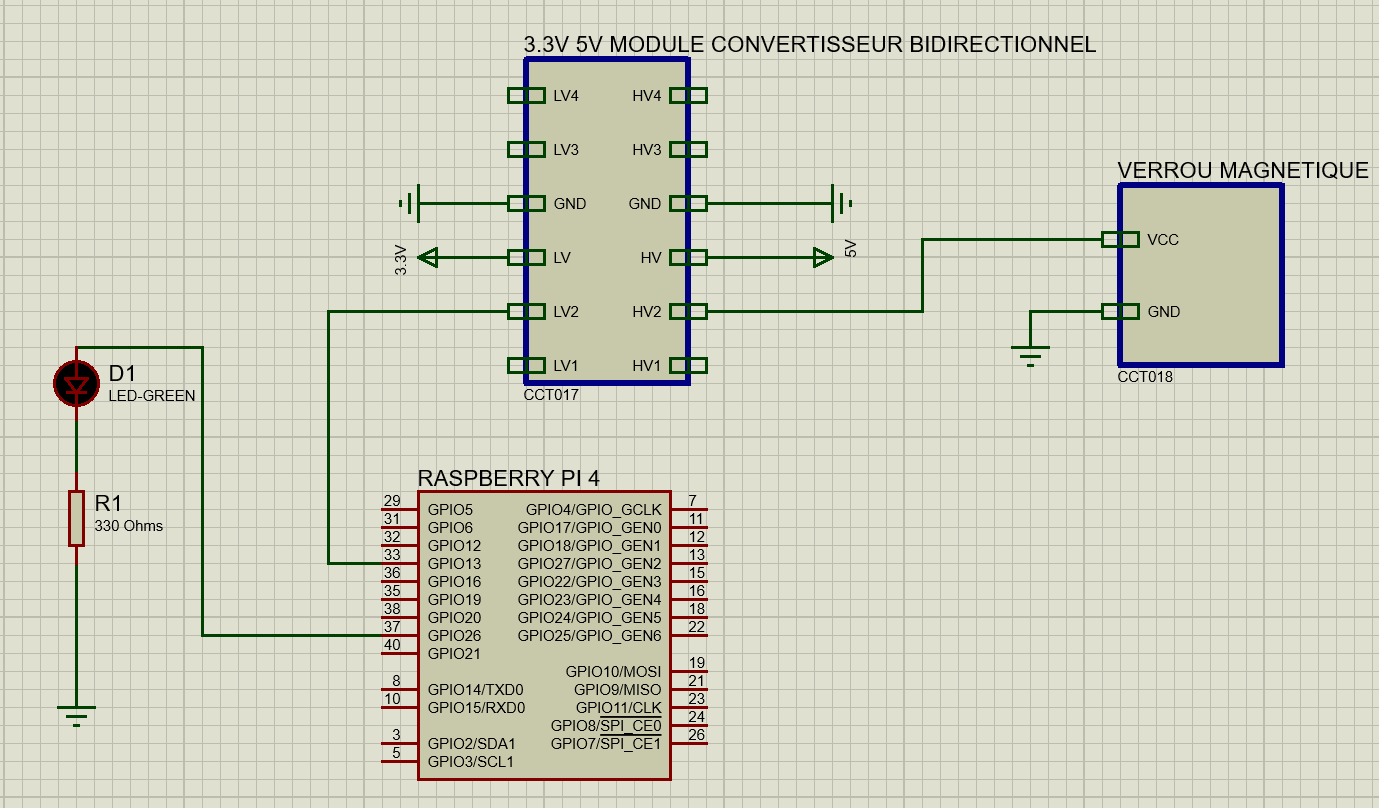
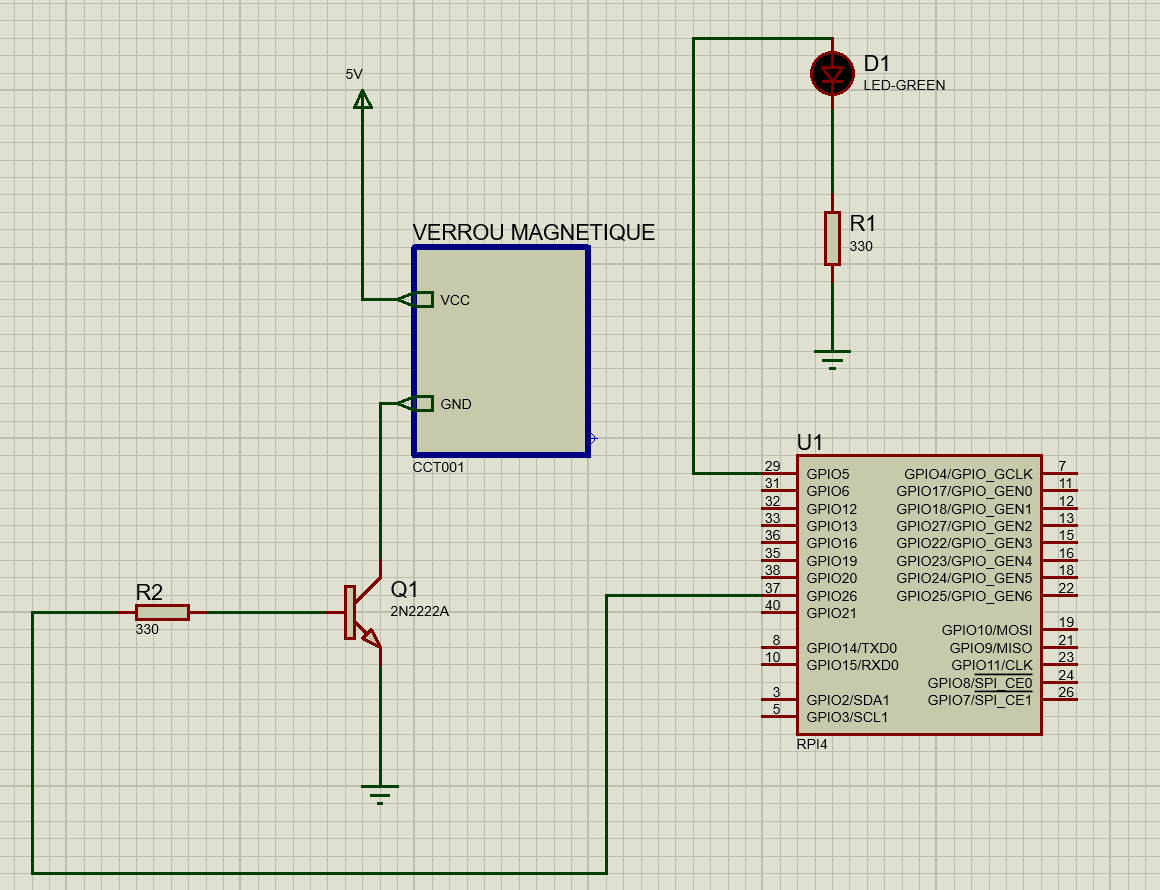
maj py files

diff --git a/Electronique/Raspberry/script.py b/Electronique/Raspberry/script.py
@@ -16,7 +16,7 @@ tabColis=json.loads(x.text)
 #code=open('/dev/hidraw3', 'rb')
 GPIO.setmode(GPIO.BCM)
 GPIO.setup(26,GPIO.OUT, initial=GPIO.LOW)
-GPIO.setup(13,GPIO.OUT, initial=GPIO.HIGH)
+GPIO.setup(5,GPIO.OUT, initial=GPIO.LOW)
 def chargeLivraisons():
     x=requests.get('https://51.91.102.255:8080/api/livraisons/'+numBoite, verify=False)
     tabColis=json.loads(x.text)
@@ -27,28 +27,28 @@ schedule.every(30).minutes.do(chargeLivraisons)
 while 1:
     schedule.run_pending()
     num=input("")
+    y=requests.get('https://51.91.102.255:8080/api/livraisons/'+numBoite, verify=False)
+    tabColis=json.loads(y.text)
     for i in range(len(tabColis)):
         if num==tabColis[i]["numcolis"] and tabColis[i]["datefin"] is not None:
             bonneDate= tabColis[i]["datefin"][:10]
             b=datetime.strptime(bonneDate,'%Y-%m-%d')
             if date.today() == b.date():
-                print('equals')
                 GPIO.output(26,1)
-                GPIO.output(13,0)
+                GPIO.output(5,1)
                 sleep(6)
                 GPIO.output(26,0)
-                GPIO.output(13,1)
+                GPIO.output(5,0)
                 requests.put('https://51.91.102.255:8080/api/livraisons/'+str(tabColis[i]["id"]), verify=False)
                 x=requests.get('https://51.91.102.255:8080/api/livraisons/'+numBoite, verify=False)
                 tabColis=json.loads(x.text)
                 
         if num==tabColis[i]["numcolis"] and tabColis[i]["datefin"] is None:
-            print('equals1')
             GPIO.output(26,1)
-            GPIO.output(13,0)
+            GPIO.output(5,1)
             sleep(6)
             GPIO.output(26,0)
-            GPIO.output(13,1)
+            GPIO.output(5,0)
             requests.put('https://51.91.102.255:8080/api/livraisons/'+str(tabColis[i]["id"]), verify=False)
             x=requests.get('https://51.91.102.255:8080/api/livraisons/'+numBoite, verify=False)
             tabColis=json.loads(x.text)

diff --git a/Electronique/Raspberry/scriptOpen.py b/Electronique/Raspberry/scriptOpen.py
@@ -5,16 +5,15 @@ from time import sleep
 app = Flask(__name__)
 GPIO.setmode(GPIO.BCM)
 GPIO.setup(26,GPIO.OUT, initial=GPIO.LOW)
-GPIO.setup(13,GPIO.OUT, initial=GPIO.HIGH)
+GPIO.setup(5,GPIO.OUT, initial=GPIO.LOW)
 
 @app.route('/openDoor', methods = ["POST"])
 def openDoor():
-    print('ok')
     GPIO.output(26,1)
-    GPIO.output(13,0)
+    GPIO.output(5,1)
     sleep(6)
     GPIO.output(26,0)
-    GPIO.output(13,1)
+    GPIO.output(5,0)
     return ''
 
 app.run(host='0.0.0.0',port=8090)
